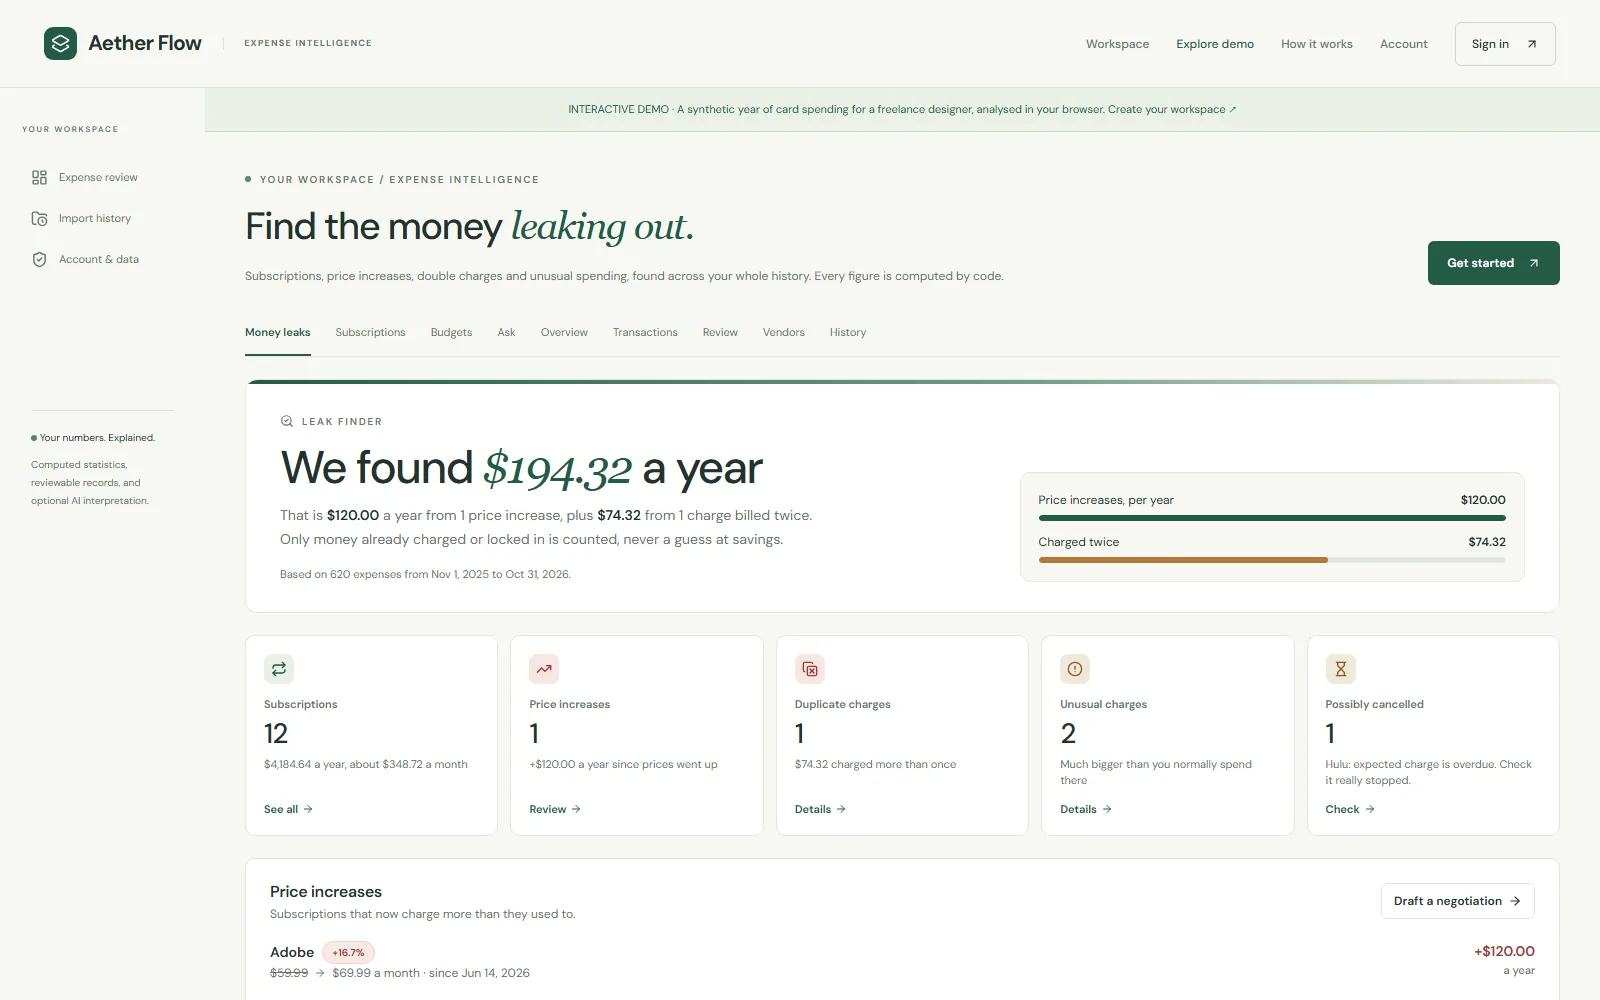
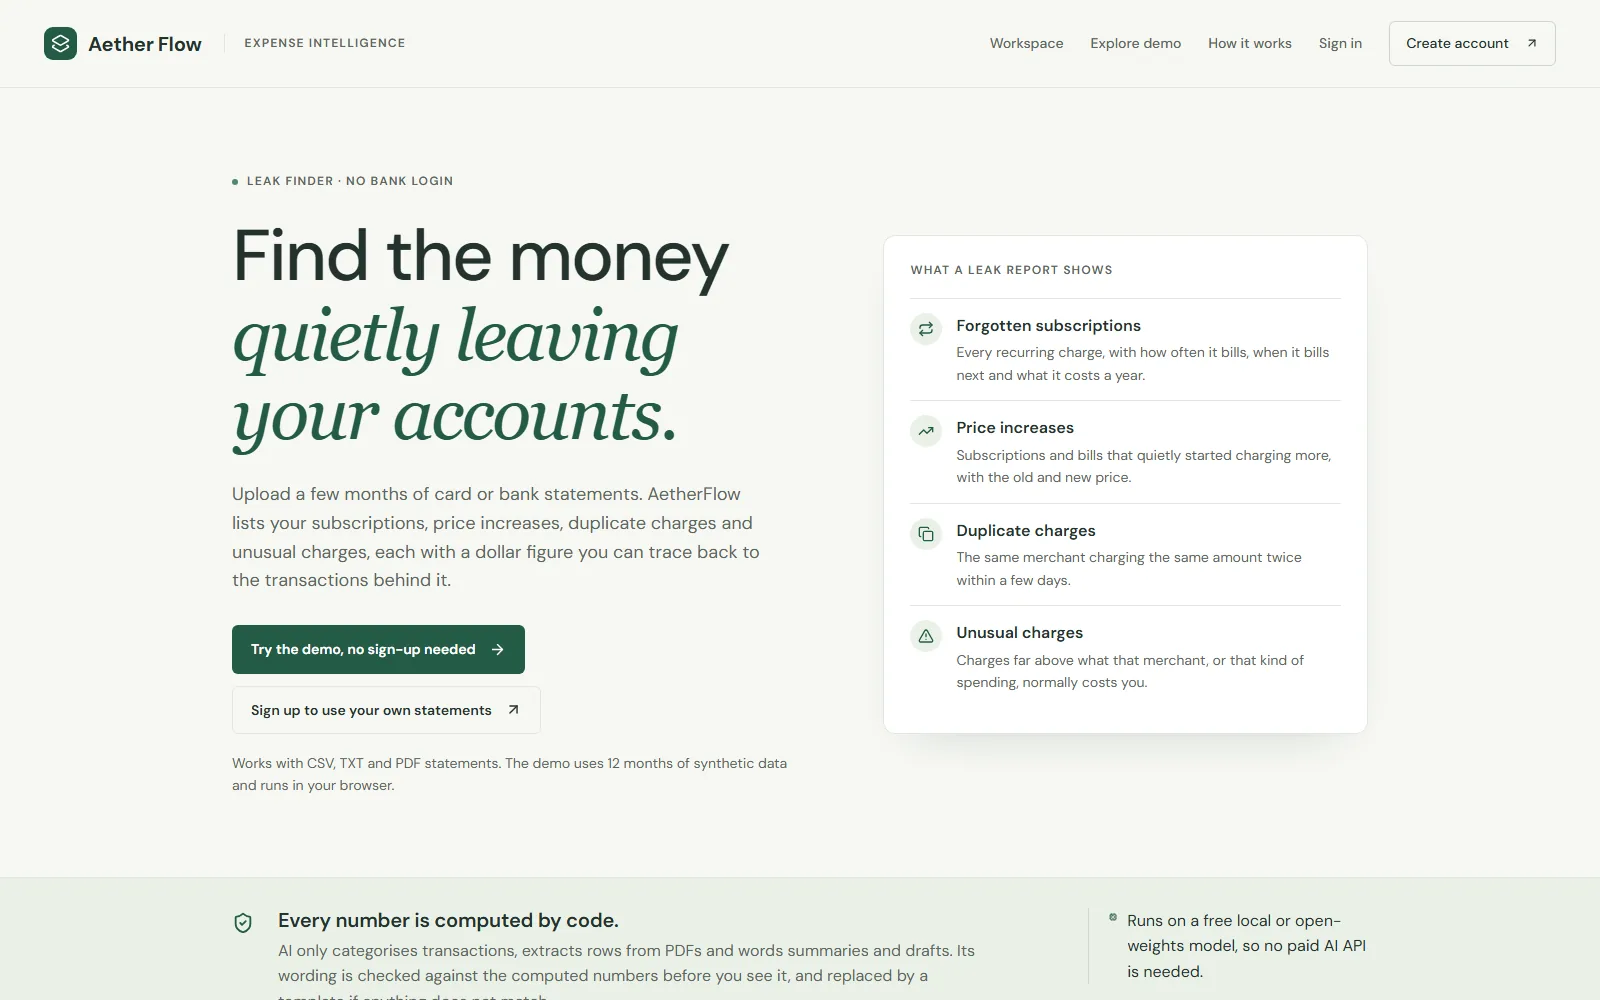
feat(projects): AetherFlow gallery shows its strongest screens
Landing page, the money-leaks report, a negotiation script and the eval
scoreboard replace two near-identical shots. The 3D exhibit gets a third
display in Formula Vision's layout; galleries and previews use the
feature shots.

diff --git a/src/journey/content/PortfolioPanels.tsx b/src/journey/content/PortfolioPanels.tsx
@@ -286,7 +286,7 @@ export function SupportingPanel({ id }: { id: 'github-review-bot' | 'aetherflow'
   return (
     <article className={`jp-exhibit ${id === 'aetherflow' ? 'jp-exhibit--aether' : 'jp-exhibit--bot'}`}>
       <p className="jp-topline"><span>{project.number} / ENGINEERING PROJECT</span><span>{SUPPORTING_TYPES[project.id]}</span></p>
-      <MobilePreview src={id === 'aetherflow' ? '/projects/aetherflow-home.webp' : '/projects/review-bot-pipeline.webp'} alt={id === 'aetherflow' ? 'AetherFlow money-leaks view: $194.32 a year found in the demo year' : 'GitHub Review Bot pipeline, from its repository README'} />
+      <MobilePreview src={id === 'aetherflow' ? '/projects/aetherflow-leaks.webp' : '/projects/review-bot-pipeline.webp'} alt={id === 'aetherflow' ? 'AetherFlow money-leaks view: $194.32 a year found in the demo year' : 'GitHub Review Bot pipeline, from its repository README'} />
       <p className="jp-overline">{project.tagline}</p>
       <h3>{project.name}</h3>
       <p className="jp-desc">{project.description}</p>

diff --git a/src/journey/scene/solutions/ConfluenceWorlds.tsx b/src/journey/scene/solutions/ConfluenceWorlds.tsx
@@ -12,7 +12,7 @@ import { LITE } from '../../core/budget';
 /** Beside the products intro: the independent products, floating (hover lifts, click inspects). */
 const PRODUCT_TEASER: DisplaySpec[] = [
   { src: '/projects/formula-vision-replay-map.webp', position: [930, 30, -1500], width: 660, yaw: -14, aspect: 1.6, emphasis: 1, alt: 'Formula Vision screenshot' },
-  { src: '/projects/aetherflow-home.webp', position: [1320, 380, -2700], width: 580, yaw: -18, aspect: 1.6, emphasis: 0.6, alt: 'AetherFlow screenshot' },
+  { src: '/projects/aetherflow-scoreboard.webp', position: [1320, 380, -2700], width: 580, yaw: -18, aspect: 1.6, emphasis: 0.6, alt: 'AetherFlow eval scoreboard: 92.3% categorisation accuracy on 233 hand-labelled transactions' },
 ];
 
 /* Colour carries meaning on this page: amber is raw, manual data; cyan is validated. */

diff --git a/src/journey/scene/software/AssemblyWorlds.tsx b/src/journey/scene/software/AssemblyWorlds.tsx
@@ -155,7 +155,7 @@ export function ServiceModules({ index, count }: { index: number; count: number 
 const GALLERY: Record<string, string[]> = {
   salon: ['/projects/perfect-threading-home.webp', '/projects/perfect-threading-services.webp'],
   formula: ['/projects/formula-vision-replay-map.webp', '/projects/formula-vision-chase-camera.webp'],
-  aetherflow: ['/projects/aetherflow-home.webp', '/projects/aetherflow-signup.webp'],
+  aetherflow: ['/projects/aetherflow-leaks.webp', '/projects/aetherflow-negotiation.webp'],
   'review-bot': ['/projects/review-bot-pipeline.webp', '/projects/review-bot-engineering.webp'],
   biaslens: ['/projects/biaslens-dashboard.webp', '/projects/biaslens-table.webp'],
 };

diff --git a/src/journey/scene/portfolio/ProjectsWorld.tsx b/src/journey/scene/portfolio/ProjectsWorld.tsx
@@ -42,7 +42,8 @@ const BOT_DISPLAYS: DisplaySpec[] = [
 ];
 const AETHER_DISPLAYS: DisplaySpec[] = [
   { src: '/projects/aetherflow-home.webp', position: [820, 40, -700], width: 780, yaw: -22, aspect: 1.6, emphasis: 1 },
-  { src: '/projects/aetherflow-signup.webp', position: [1180, 560, -1750], width: 620, yaw: -26, aspect: 1.6, emphasis: 0.5 },
+  { src: '/projects/aetherflow-leaks.webp', position: [1180, 560, -1750], width: 620, yaw: -26, aspect: 1.6, emphasis: 0.5 },
+  { src: '/projects/aetherflow-negotiation.webp', position: [560, -500, -1950], width: 560, yaw: -16, aspect: 1.6, emphasis: 0.36 },
 ];
 
 /** Where each project's main screen stands (its floor pool and plinth sit under it). */

diff --git a/src/journey/pages/SoftwareJourney.tsx b/src/journey/pages/SoftwareJourney.tsx
@@ -11,7 +11,7 @@ import { MobilePreview } from '../content/PortfolioPanels';
 const PREVIEWS: Record<string, string> = {
   salon: '/projects/perfect-threading-home.webp',
   formula: '/projects/formula-vision-replay-map.webp',
-  aetherflow: '/projects/aetherflow-home.webp',
+  aetherflow: '/projects/aetherflow-leaks.webp',
   'review-bot': '/projects/review-bot-pipeline.webp',
   biaslens: '/projects/biaslens-dashboard.webp',
 };
